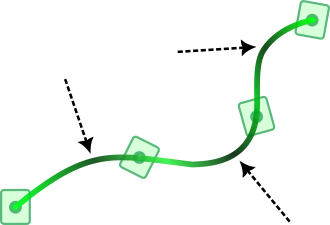
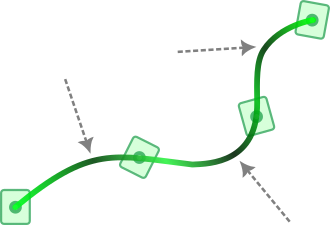
update colors

diff --git a/content/_index.md b/content/_index.md
@@ -76,7 +76,7 @@ This software is offered with an [<u>MIT License</u>](license_on_homepage).
   >}}
   {{< hextra/feature-card
     title="Numerical optimization"
-    subtitle="Trajectory estimation and generation using Trajectory Invariants is achieved using Optimal Control."
+    subtitle="Achieve trajectory estimation and generation with Trajectory Invariants using Optimal Control."
     style="background: radial-gradient(ellipse at 50% 80%,rgba(42,50,154,0.15),hsla(0,0%,100%,0));"
   >}}
 {{< /hextra/feature-grid >}}
